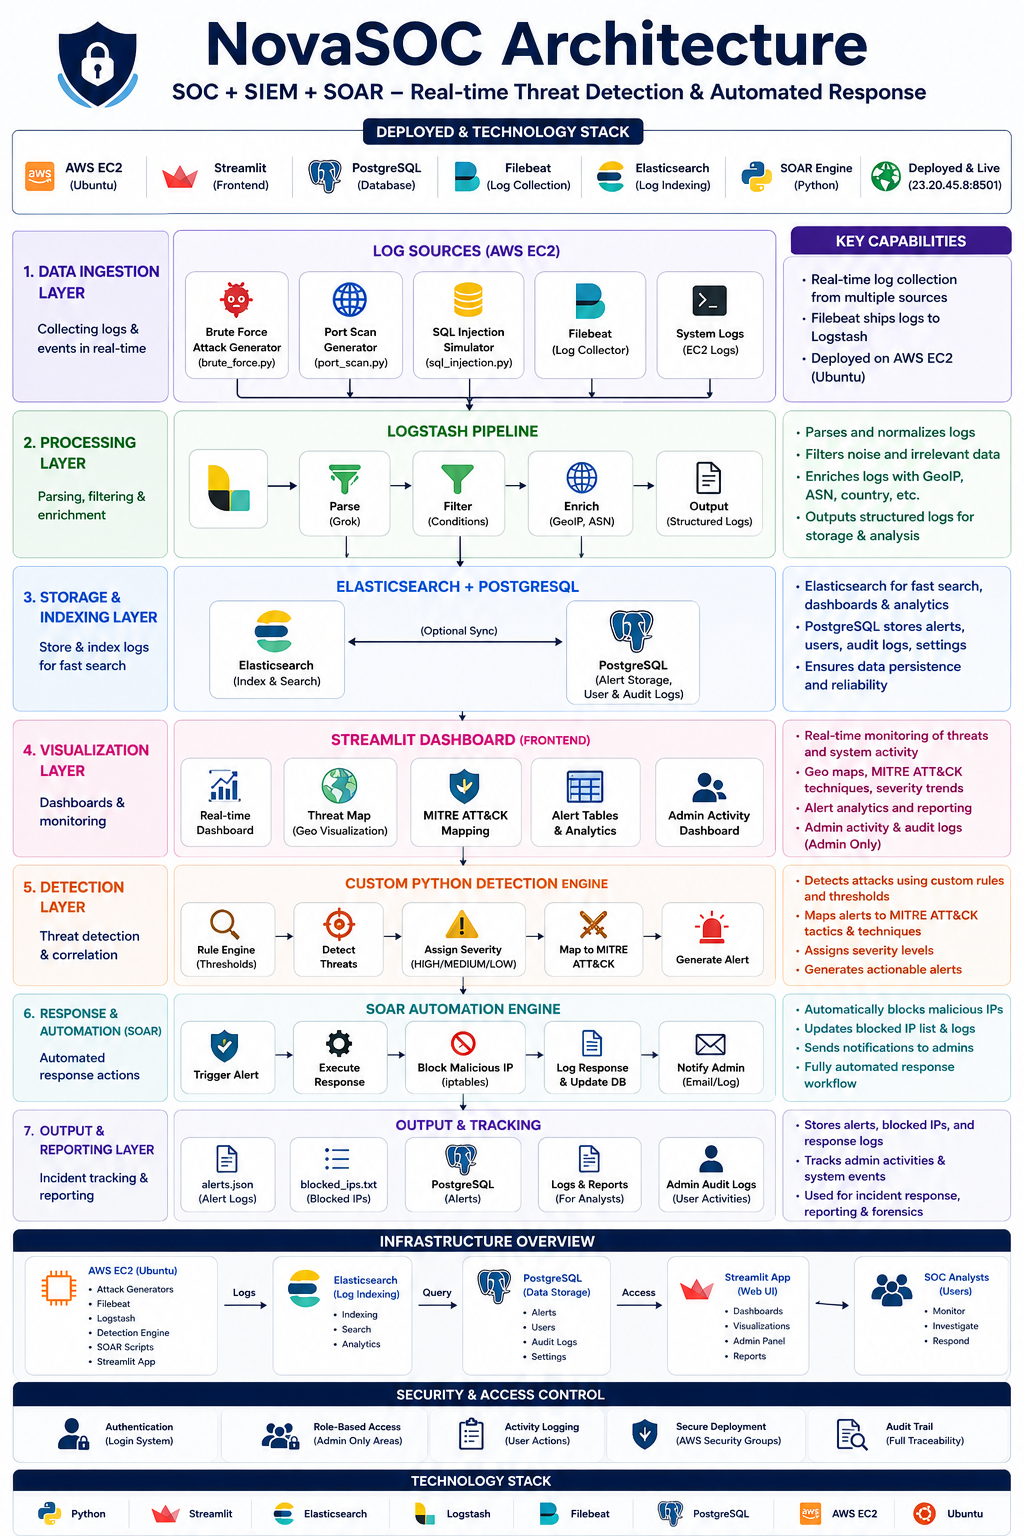
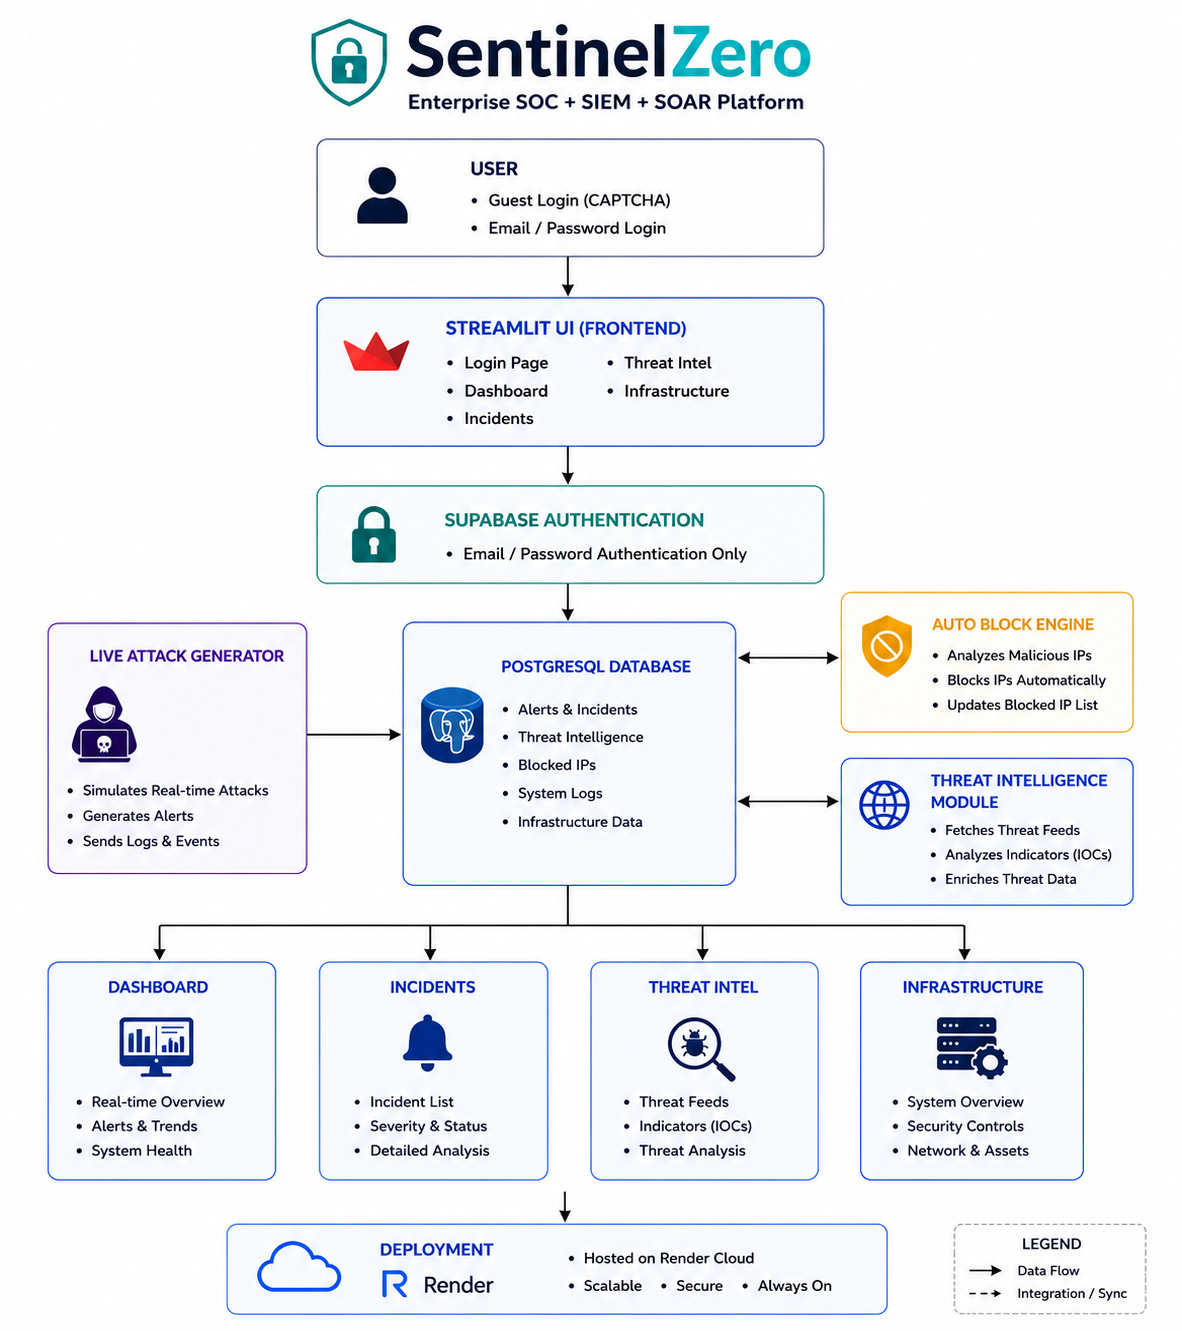
Update login page and SentinelZero architecture diagram

Changed region(s): [[0.0, 0.0, 1.0, 1.0], [0.0, 0.0, 0.1562, 0.2464], [0.0, 0.2772, 0.125, 0.3388]]

diff --git a/login.py b/login.py
@@ -33,19 +33,6 @@ if "logged_in" in st.session_state:
         st.switch_page("pages/dashboard.py")
 
 # =====================================================
-# GOOGLE AUTH URL
-# =====================================================
-
-google_auth_url = supabase.auth.sign_in_with_oauth(
-    {
-        "provider": "google",
-        "options": {
-            "redirect_to": "http://23.20.45.8:8501"
-        }
-    }
-).url
-
-# =====================================================
 # CAPTCHA GENERATION
 # =====================================================
 
@@ -214,28 +201,6 @@ if st.button("Login"):
         st.error("Invalid email or password")
 
 # =====================================================
-# DIVIDER
-# =====================================================
-
-st.markdown("""
-<div style='text-align:center; margin-top:25px; margin-bottom:20px; color:gray;'>
-────────── OR ──────────
-</div>
-""", unsafe_allow_html=True)
-
-# =====================================================
-# GOOGLE LOGIN
-# =====================================================
-
-st.markdown(f"""
-<a href="{google_auth_url}" target="_self" class="social-btn">
-<img class="social-logo"
-src="https://cdn.jsdelivr.net/gh/devicons/devicon/icons/google/google-original.svg">
-Continue with Google
-</a>
-""", unsafe_allow_html=True)
-
-# =====================================================
 # GUEST ACCESS
 # =====================================================
 
@@ -251,24 +216,23 @@ st.info(
     f"{st.session_state.captcha_b}"
 )
 
-guest_captcha = st.text_input(
-    "Enter CAPTCHA Answer",
-    placeholder="Solve the math problem",
-    key="guest_captcha"
-)
+with st.form("guest_login_form"):
 
-continue_guest = st.button(
-    "Continue as Guest",
-    use_container_width=True
-)
+    guest_captcha = st.text_input(
+        "Enter CAPTCHA Answer",
+        placeholder="Solve the math problem"
+    )
+
+    continue_guest = st.form_submit_button(
+        "Continue as Guest",
+        use_container_width=True
+    )
 
 if continue_guest:
 
     try:
 
-        entered_answer = int(
-            st.session_state.guest_captcha
-        )
+        entered_answer = int(guest_captcha.strip())
 
         if entered_answer == captcha_answer:
 
@@ -276,13 +240,17 @@ if continue_guest:
 
             st.session_state.guest_user = True
 
+            st.session_state.captcha_a = random.randint(1, 9)
+
+            st.session_state.captcha_b = random.randint(1, 9)
+
             st.switch_page("pages/dashboard.py")
 
         else:
 
             st.error("Incorrect CAPTCHA")
 
-    except:
+    except ValueError:
 
         st.error("Please enter a valid number")
 
